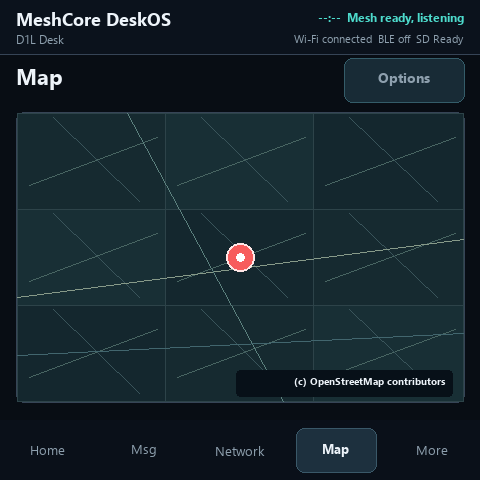
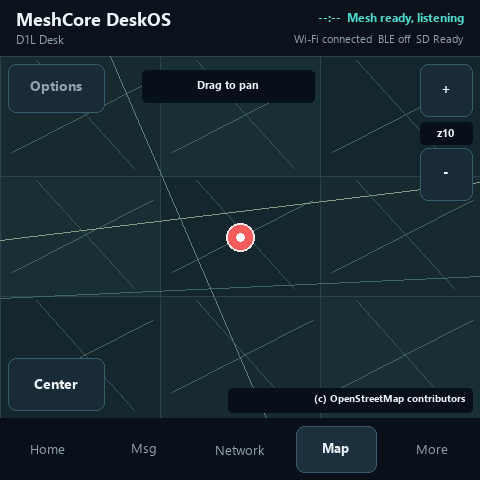
Use a full-screen Map canvas

diff --git a/main/ui/ui_map.c b/main/ui/ui_map.c
@@ -20,8 +20,8 @@
 #define MAP_COLOR_GOOD 0x5EEAD4U
 #define MAP_COLOR_INFO 0x93C5FDU
 #define MAP_COLOR_WARN 0xFBBF24U
-#define MAP_VIEWPORT_WIDTH 446U
-#define MAP_VIEWPORT_HEIGHT 288U
+#define MAP_VIEWPORT_WIDTH 478U
+#define MAP_VIEWPORT_HEIGHT 360U
 #define MAP_DRAG_THRESHOLD_PIXELS 24
 #define MAP_DRAG_MAX_X_PIXELS ((int32_t)MAP_VIEWPORT_WIDTH / 3)
 #define MAP_DRAG_MAX_Y_PIXELS ((int32_t)MAP_VIEWPORT_HEIGHT / 3)
@@ -140,6 +140,17 @@ static void map_style_primary_button(lv_obj_t *button)
     lv_obj_set_style_bg_color(button, lv_color_hex(0x12362F), 0);
     lv_obj_set_style_bg_color(button, lv_color_hex(0x174A40), LV_STATE_PRESSED);
     lv_obj_set_style_border_color(button, lv_color_hex(MAP_COLOR_GOOD), 0);
+    lv_obj_set_style_border_width(button, 1, 0);
+}
+
+static void map_style_overlay_button(lv_obj_t *button)
+{
+    if (!button) {
+        return;
+    }
+    lv_obj_set_style_bg_opa(button, LV_OPA_90, 0);
+    lv_obj_set_style_bg_opa(button, LV_OPA_COVER, LV_STATE_PRESSED);
+    lv_obj_set_style_border_color(button, lv_color_hex(MAP_COLOR_BORDER), 0);
     lv_obj_set_style_border_width(button, 1, 0);
 }
 
@@ -809,21 +820,23 @@ void d1l_ui_map_render(lv_obj_t *parent,
     s_viewport_zoom_label = NULL;
     s_viewport_zoom_in_button = NULL;
     s_viewport_zoom_out_button = NULL;
+    lv_obj_clear_flag(parent, LV_OBJ_FLAG_SCROLLABLE | LV_OBJ_FLAG_SCROLL_CHAIN);
+    lv_obj_set_scroll_dir(parent, LV_DIR_NONE);
+    lv_obj_set_scrollbar_mode(parent, LV_SCROLLBAR_MODE_OFF);
     lv_obj_set_style_pad_bottom(parent, 0, 0);
-    lv_obj_t *title = map_label(parent, "Map", MAP_COLOR_TEXT);
-    if (title) {
-        lv_obj_set_style_text_font(title, &lv_font_montserrat_24, 0);
-        lv_obj_set_pos(title, 16, 6);
-    }
-    map_button(parent, "Options", 344, 4, 120, 44, callbacks->open_options);
-
-    lv_obj_t *viewport = map_panel(parent, 16, 58, 448, 290);
+    lv_obj_t *viewport = map_panel(parent, 0, 0, 480, 362);
     if (!viewport) {
         return;
     }
     lv_obj_set_style_bg_color(viewport, lv_color_hex(0x0B151E), 0);
+    lv_obj_set_style_radius(viewport, 0, 0);
+    lv_obj_set_style_border_width(viewport, 0, 0);
     lv_obj_add_flag(viewport, LV_OBJ_FLAG_CLICKABLE);
-    lv_obj_clear_flag(viewport, LV_OBJ_FLAG_GESTURE_BUBBLE);
+    lv_obj_clear_flag(viewport, LV_OBJ_FLAG_SCROLLABLE |
+                                LV_OBJ_FLAG_SCROLL_CHAIN |
+                                LV_OBJ_FLAG_GESTURE_BUBBLE);
+    lv_obj_set_scroll_dir(viewport, LV_DIR_NONE);
+    lv_obj_set_scrollbar_mode(viewport, LV_SCROLLBAR_MODE_OFF);
     lv_obj_add_event_cb(viewport, map_viewport_drag_event_cb, LV_EVENT_PRESSED, NULL);
     lv_obj_add_event_cb(viewport, map_viewport_drag_event_cb, LV_EVENT_PRESSING, NULL);
     lv_obj_add_event_cb(viewport, map_viewport_drag_event_cb, LV_EVENT_RELEASED, NULL);
@@ -843,16 +856,16 @@ void d1l_ui_map_render(lv_obj_t *parent,
     s_viewport_status_label = status;
     if (status) {
         lv_obj_set_style_text_font(status, &lv_font_montserrat_24, 0);
-        map_label_dot(status, 400);
+        map_label_dot(status, 420);
         lv_obj_set_style_text_align(status, LV_TEXT_ALIGN_CENTER, 0);
-        lv_obj_set_pos(status, 24, 94);
+        lv_obj_set_pos(status, 30, 116);
     }
     lv_obj_t *detail = map_label(viewport, state_detail, MAP_COLOR_DETAIL);
     s_viewport_detail_label = detail;
     if (detail) {
-        map_label_wrap(detail, 400);
+        map_label_wrap(detail, 420);
         lv_obj_set_style_text_align(detail, LV_TEXT_ALIGN_CENTER, 0);
-        lv_obj_set_pos(detail, 24, 134);
+        lv_obj_set_pos(detail, 30, 158);
     }
     char readiness[96];
     snprintf(readiness, sizeof(readiness), "Wi-Fi %s  |  SD %s",
@@ -860,47 +873,56 @@ void d1l_ui_map_render(lv_obj_t *parent,
     lv_obj_t *ready = map_label(viewport, readiness, MAP_COLOR_MUTED);
     s_viewport_readiness_label = ready;
     if (ready) {
-        map_label_dot(ready, 400);
+        map_label_dot(ready, 420);
         lv_obj_set_style_text_align(ready, LV_TEXT_ALIGN_CENTER, 0);
-        lv_obj_set_pos(ready, 24, 188);
+        lv_obj_set_pos(ready, 30, 216);
     }
     lv_obj_t *attribution = map_label(viewport, "(c) OpenStreetMap contributors",
                                       MAP_COLOR_DETAIL);
     s_viewport_attribution_label = attribution;
     if (attribution) {
-        map_label_dot(attribution, 416);
+        map_label_dot(attribution, 240);
         lv_obj_set_style_text_align(attribution, LV_TEXT_ALIGN_RIGHT, 0);
-        lv_obj_set_pos(attribution, 16, 260);
+        lv_obj_set_pos(attribution, 228, 334);
         lv_obj_set_style_bg_color(attribution, lv_color_hex(0x071018), 0);
         lv_obj_set_style_bg_opa(attribution, LV_OPA_80, 0);
         lv_obj_set_style_pad_all(attribution, 2, 0);
     }
 
+    lv_obj_t *options_button = map_button(
+        viewport, "Options", 8, 8, 96, 48, callbacks->open_options);
+    map_style_overlay_button(options_button);
+
     if (snapshot->map_location_set) {
-        map_button(viewport, "Center", 12, 12, 92, 48,
-                   map_viewport_recenter_event_cb);
+        lv_obj_t *center_button = map_button(
+            viewport, "Center", 8, 302, 96, 52,
+            map_viewport_recenter_event_cb);
+        map_style_overlay_button(center_button);
         lv_obj_t *drag_hint = map_label(viewport, "Drag to pan", MAP_COLOR_DETAIL);
         s_viewport_drag_hint_label = drag_hint;
         if (drag_hint) {
-            map_label_dot(drag_hint, 128);
-            lv_obj_set_pos(drag_hint, 116, 29);
+            map_label_dot(drag_hint, 172);
+            lv_obj_set_style_text_align(drag_hint, LV_TEXT_ALIGN_CENTER, 0);
+            lv_obj_set_pos(drag_hint, 142, 22);
             lv_obj_set_style_bg_color(drag_hint, lv_color_hex(MAP_COLOR_BG), 0);
             lv_obj_set_style_bg_opa(drag_hint, LV_OPA_80, 0);
             lv_obj_set_style_pad_all(drag_hint, 2, 0);
         }
         s_viewport_zoom_label = map_label(viewport, "z10", MAP_COLOR_DETAIL);
         if (s_viewport_zoom_label) {
-            map_label_dot(s_viewport_zoom_label, 44);
+            map_label_dot(s_viewport_zoom_label, 52);
             lv_obj_set_style_text_align(s_viewport_zoom_label, LV_TEXT_ALIGN_CENTER, 0);
-            lv_obj_set_pos(s_viewport_zoom_label, 292, 29);
+            lv_obj_set_pos(s_viewport_zoom_label, 420, 66);
             lv_obj_set_style_bg_color(s_viewport_zoom_label, lv_color_hex(MAP_COLOR_BG), 0);
             lv_obj_set_style_bg_opa(s_viewport_zoom_label, LV_OPA_80, 0);
             lv_obj_set_style_pad_all(s_viewport_zoom_label, 2, 0);
         }
         s_viewport_zoom_out_button = map_button(
-            viewport, "-", 344, 12, 44, 48, map_viewport_zoom_out_event_cb);
+            viewport, "-", 420, 92, 52, 52, map_viewport_zoom_out_event_cb);
         s_viewport_zoom_in_button = map_button(
-            viewport, "+", 392, 12, 44, 48, map_viewport_zoom_in_event_cb);
+            viewport, "+", 420, 8, 52, 52, map_viewport_zoom_in_event_cb);
+        map_style_overlay_button(s_viewport_zoom_out_button);
+        map_style_overlay_button(s_viewport_zoom_in_button);
         map_viewport_update_controls();
     }
 

diff --git a/tools/ui_simulator.py b/tools/ui_simulator.py
@@ -14,10 +14,10 @@ from PIL import Image, ImageDraw, ImageFont
 
 WIDTH = 480
 HEIGHT = 480
-TOP_BAR_H = 54
+TOP_BAR_H = 56
 HOME_TOP_BAR_H = 16
-DOCK_Y = 420
-DOCK_H = 60
+DOCK_Y = 418
+DOCK_H = 62
 MIN_TOUCH_TARGET = 44
 DOCKED_VIEWS = frozenset(
     {
@@ -1771,31 +1771,40 @@ def render_map(s: Surface, snap: Snapshot):
     ready_for_live = snap.map_location_set and snap.wifi_connected
     frame_ready = ready_for_live or snap.map_cached_tile_count > 0
 
-    # Match ui_map.c: a simple title/action row and one 448x290 inset viewport.
-    s.text("Map", (16, 58, 328, 102), 22, TEXT, True)
-    draw_button(s, (344, 58, 464, 102), "Options", MUTED, action="open_map_options", destination="map_options")
-    viewport = (16, 112, 464, 402)
-    s.round_rect(viewport, (11, 21, 30), BORDER, 8)
+    # Match ui_map.c: the entire space between global chrome is the map canvas.
+    # Controls are sparse edge overlays so the map remains the dominant surface.
+    viewport = (0, TOP_BAR_H, WIDTH, DOCK_Y)
     if frame_ready:
-        draw_map_grid(s, snap, (17, 113, 463, 401))
+        draw_map_grid(s, snap, viewport)
     else:
+        s.rect(viewport, (11, 21, 30))
         view_status, view_detail, view_color = map_view_status(snap)
-        s.text(view_status, (40, 202, 440, 236), 22, view_color, True, "center")
-        s.wrapped_text(view_detail, (40, 242, 440, 292), 13, TEXT, line_height=20, align="center")
+        s.text(view_status, (30, 168, 450, 202), 22, view_color, True, "center")
+        s.wrapped_text(view_detail, (30, 210, 450, 260), 13, TEXT, line_height=20, align="center")
         wifi_label, _ = map_wifi_status(snap)
         readiness = f"Wi-Fi {wifi_label}  |  SD {'Ready' if snap.map_tile_cache_ready else 'Not ready'}"
-        s.text(readiness, (40, 300, 440, 326), 12, MUTED, False, "center")
+        s.text(readiness, (30, 268, 450, 294), 12, MUTED, False, "center")
+
+    draw_button(
+        s,
+        (8, TOP_BAR_H + 8, 104, TOP_BAR_H + 56),
+        "Options",
+        MUTED,
+        action="open_map_options",
+        destination="map_options",
+    )
 
     if snap.map_location_set:
-        draw_button(s, (28, 124, 120, 172), "Center", TEXT, action="map_recenter")
-        s.text("Drag to pan", (132, 137, 250, 160), 11, TEXT, True, "center")
-        s.text(f"z{snap.map_tile_zoom}", (302, 137, 350, 160), 11, TEXT, True, "center")
-        draw_button(s, (360, 124, 404, 172), "-", TEXT, action="map_zoom_out")
-        draw_button(s, (408, 124, 452, 172), "+", TEXT, action="map_zoom_in")
+        draw_button(s, (8, DOCK_Y - 60, 104, DOCK_Y - 8), "Center", TEXT, action="map_recenter")
+        s.round_rect((142, TOP_BAR_H + 14, 314, TOP_BAR_H + 46), (7, 16, 24), (7, 16, 24), 5)
+        s.text("Drag to pan", (146, TOP_BAR_H + 18, 310, TOP_BAR_H + 42), 11, TEXT, True, "center")
+        draw_button(s, (420, TOP_BAR_H + 8, 472, TOP_BAR_H + 60), "+", TEXT, action="map_zoom_in")
+        s.round_rect((420, TOP_BAR_H + 66, 472, TOP_BAR_H + 88), (7, 16, 24), (7, 16, 24), 4)
+        s.text(f"z{snap.map_tile_zoom}", (420, TOP_BAR_H + 66, 472, TOP_BAR_H + 88), 11, TEXT, True, "center")
+        draw_button(s, (420, TOP_BAR_H + 92, 472, TOP_BAR_H + 144), "-", TEXT, action="map_zoom_out")
 
-    # The ready viewport has no technical badges; attribution is the sole overlay.
-    s.round_rect((236, 370, 452, 396), (7, 16, 24), (7, 16, 24), 4)
-    s.text(MAP_ATTRIBUTION, (242, 372, 446, 394), 10, TEXT, True, "right")
+    s.round_rect((228, DOCK_Y - 30, 472, DOCK_Y - 6), (7, 16, 24), (7, 16, 24), 4)
+    s.text(MAP_ATTRIBUTION, (234, DOCK_Y - 28, 466, DOCK_Y - 8), 10, TEXT, True, "right")
     s.metrics.update(
         {
             "map_hierarchy_level": "actual_view",
@@ -1803,6 +1812,10 @@ def render_map(s: Surface, snap: Snapshot):
             "map_landing_action_count": 1,
             "map_view_control_count": 3 if snap.map_location_set else 0,
             "map_pan_gesture": snap.map_location_set,
+            "map_full_bleed_content": True,
+            "map_local_header_height": 0,
+            "map_controls_overlay_canvas": True,
+            "map_min_control_target": 48,
             "map_default_zoom": 10,
             "map_min_zoom": 8,
             "map_max_zoom": 14,

diff --git a/tests/test_map_viewport_ui_contract.py b/tests/test_map_viewport_ui_contract.py
@@ -22,8 +22,8 @@ def test_map_ui_uses_bounded_core_viewport_and_visible_attribution():
     assert "D1L_MAP_VIEW_MIN_ZOOM 8U" in math_header
     assert "D1L_MAP_VIEW_MAX_ZOOM 14U" in math_header
     assert "s_viewport_zoom = D1L_MAP_VIEW_DEFAULT_ZOOM" in source
-    assert "MAP_VIEWPORT_WIDTH 446U" in source
-    assert "MAP_VIEWPORT_HEIGHT 288U" in source
+    assert "MAP_VIEWPORT_WIDTH 478U" in source
+    assert "MAP_VIEWPORT_HEIGHT 360U" in source
     assert "d1l_map_view_service_acquire_visible" in source
     assert "d1l_map_view_service_acquire_frame" in source
     assert "d1l_map_view_service_release_frame" in source
@@ -80,13 +80,18 @@ def test_map_viewport_touch_controls_pan_on_release_and_request_one_new_view():
         "bool d1l_ui_map_viewport_refresh",
     )
 
-    assert 'map_button(viewport, "Center", 12, 12, 92, 48' in render
-    assert 'viewport, "-", 344, 12, 44, 48' in render
-    assert 'viewport, "+", 392, 12, 44, 48' in render
+    assert 'viewport, "Options", 8, 8, 96, 48' in render
+    assert 'viewport, "Center", 8, 302, 96, 52' in render
+    assert 'viewport, "-", 420, 92, 52, 52' in render
+    assert 'viewport, "+", 420, 8, 52, 52' in render
+    assert "map_style_overlay_button" in render
+    assert "LV_OBJ_FLAG_SCROLLABLE | LV_OBJ_FLAG_SCROLL_CHAIN" in render
+    assert "lv_obj_set_scroll_dir(parent, LV_DIR_NONE)" in render
+    assert "lv_obj_set_scrollbar_mode(parent, LV_SCROLLBAR_MODE_OFF)" in render
     assert 'map_label(viewport, "Drag to pan"' in render
     assert "s_viewport_drag_hint_label = drag_hint" in render
     assert "lv_obj_add_flag(viewport, LV_OBJ_FLAG_CLICKABLE)" in render
-    assert "lv_obj_clear_flag(viewport, LV_OBJ_FLAG_GESTURE_BUBBLE)" in render
+    assert "LV_OBJ_FLAG_GESTURE_BUBBLE" in render
     for event in (
         "LV_EVENT_PRESSED",
         "LV_EVENT_PRESSING",

diff --git a/tests/test_ui_shell_contract.py b/tests/test_ui_shell_contract.py
@@ -1090,7 +1090,6 @@ def test_map_screen_uses_built_in_source_and_a_bounded_visible_view():
     assert "render_metric_card(" not in wrapper
 
     for label in (
-        '"Map"',
         '"Options"',
         '"Map options"',
         '"Set location"',
@@ -1117,15 +1116,16 @@ def test_map_screen_uses_built_in_source_and_a_bounded_visible_view():
     landing = map_source.split("void d1l_ui_map_render(", 1)[1].split(
         "static void map_render_options_root", 1
     )[0]
-    assert landing.count('map_button(parent, "Options"') == 1
+    assert 'map_label(parent, "Map"' not in landing
+    assert landing.count('viewport, "Options", 8, 8, 96, 48') == 1
     assert "map_view_service_acquire_visible" in landing
     assert "s_viewport_lat_e7, s_viewport_lon_e7, s_viewport_zoom" in landing
-    assert 'map_button(viewport, "Center"' in landing
-    assert 'viewport, "-", 344, 12, 44, 48' in landing
-    assert 'viewport, "+", 392, 12, 44, 48' in landing
+    assert 'viewport, "Center", 8, 302, 96, 52' in landing
+    assert 'viewport, "-", 420, 92, 52, 52' in landing
+    assert 'viewport, "+", 420, 8, 52, 52' in landing
     assert 'map_label(viewport, "Drag to pan"' in landing
-    assert "MAP_VIEWPORT_WIDTH 446U" in map_source
-    assert "MAP_VIEWPORT_HEIGHT 288U" in map_source
+    assert "MAP_VIEWPORT_WIDTH 478U" in map_source
+    assert "MAP_VIEWPORT_HEIGHT 360U" in map_source
 
     options = map_source.split("static void map_render_options_root", 1)[1].split(
         "static void map_render_cache_status", 1

diff --git a/tests/test_ui_simulator.py b/tests/test_ui_simulator.py
@@ -199,7 +199,10 @@ def test_ui_simulator_covers_current_touch_surfaces(tmp_path):
     assert "Mesh ready, listening" not in labels_by_view["home"]
     assert "D1L Desk" not in labels_by_view["home"]
     assert not any(label.startswith("--:--  Mesh") for label in labels_by_view["home"])
+    assert ui_simulator.TOP_BAR_H == 56
     assert ui_simulator.HOME_TOP_BAR_H == 16
+    assert ui_simulator.DOCK_Y == 418
+    assert ui_simulator.DOCK_H == 62
     assert "RX" not in labels_by_view["home"]
     assert "TX" not in labels_by_view["home"]
     assert not any(target["kind"] == "dock_tab" for target in views_by_name["home"]["touch_targets"])
@@ -1140,6 +1143,11 @@ def test_ui_simulator_map_hierarchy_is_simple_friendly_and_bounded(tmp_path):
     assert views["map"]["metrics"]["map_landing_action_count"] == 1
     assert views["map"]["metrics"]["map_view_control_count"] == 3
     assert views["map"]["metrics"]["map_pan_gesture"] is True
+    assert views["map"]["metrics"]["map_full_bleed_content"] is True
+    assert views["map"]["metrics"]["map_local_header_height"] == 0
+    assert views["map"]["metrics"]["map_controls_overlay_canvas"] is True
+    assert views["map"]["metrics"]["map_min_control_target"] == 48
+    assert views["map"]["metrics"]["map_viewport"] == [0, ui_simulator.TOP_BAR_H, 480, ui_simulator.DOCK_Y]
     assert views["map"]["metrics"]["map_default_zoom"] == 10
     assert views["map"]["metrics"]["map_min_zoom"] == 8
     assert views["map"]["metrics"]["map_max_zoom"] == 14
@@ -1158,8 +1166,8 @@ def test_ui_simulator_map_hierarchy_is_simple_friendly_and_bounded(tmp_path):
     assert {"map_recenter", "map_zoom_out", "map_zoom_in"}.issubset(actions["map"])
     for action in ("map_recenter", "map_zoom_out", "map_zoom_in"):
         target = actions["map"][action]
-        assert target["width"] >= 44
-        assert target["height"] >= 44
+        assert target["width"] >= 48
+        assert target["height"] >= 48
         assert target["rf_tx"] is False
         assert target["formats_sd"] is False
     assert {"Center", "Drag to pan", "z10", "-", "+"}.issubset(labels["map"])

diff --git a/docs/TEST_PLAN_D1L.md b/docs/TEST_PLAN_D1L.md
@@ -44,7 +44,7 @@ Coverage:
 - SDK generated-state contract: ESP-IDF Component Manager must generate `dependencies.lock` in the version-pinned Actions environment. The first migration run must archive the exact generated lock and diff for review; after that output is committed without hand-editing its generated hash, the qualifying repeat Actions build must leave the lock unchanged and must surface unexpected generated configuration drift for review.
 - Release gate audit contract: `scripts/release_gate_audit_d1l.py` must fail closed when P0 production evidence is missing, must not require hardware or ports in CI, must reject obsolete SD preflight evidence that recommends any device-format action, must require SD evidence to report `formats_sd=false`, and must report `ready_for_public_release=false` until current-commit smoke, compose-keyboard capture, SD matrix, 12-hour soak, manual physical UI/photos, and full RF/DM evidence are present.
 - Autonomous hardware validation contract: `scripts/autonomous_hardware_validate_d1l.py` must provide a no-user-input orchestration path for the current D1L hardware route. It must default to COM12 for the ESP32 console, treat COM16 as the RP2040 USB/CDC/UF2 path only when an RP2040 refresh is explicitly requested, refuse COM8, COM11, and COM29, use only GitHub Actions-built artifacts, preserve `public_rf_tx=false` and `formats_sd=false`, and reuse the already-validated production RP2040 bridge by default. The bundled COM12 smoke/UI/preflight path is a deliberate multi-surface sweep, not the default proof for every UI P0. Issue work should call the narrow script that matches the acceptance criteria, then reserve the bundled runner for multi-surface issues or final production sweep evidence. It may copy RP2040 UF2 files only when invoked with `--refresh-rp2040-smoke`; that refresh path must restore the production RP2040 bridge after any official SD smoke UF2.
-- UI simulator contract: `tools/ui_simulator.py` must render deterministic 480x480 PNGs plus schema-v2 `ui-sim-report.json`, cover the main touch surfaces and nested pages, fail on missing labels or measured overflow, emit 44x44 touch targets, flag RF/destructive/format-capable actions, and keep `formats_sd=false`. Storage retains its proven hierarchy. Map renders the actual current view plus `Map -> Map options -> Set location or Cache status`; it shows one-finger pan, direct `-`/`+`/`Center` controls, default zoom 10, the 8-through-14 range, `(c) OpenStreetMap contributors`, the visible-tile limit of 9, one zoom per visible generation, completed same-view frame reuse, and cache reuse while exposing no provider/source editor, background/prefetch, off-screen batch, or area-download action.
+- UI simulator contract: `tools/ui_simulator.py` must render deterministic 480x480 PNGs plus schema-v2 `ui-sim-report.json`, cover the main touch surfaces and nested pages, fail on missing labels or measured overflow, emit 44x44 touch targets, flag RF/destructive/format-capable actions, and keep `formats_sd=false`. Storage retains its proven hierarchy. Map renders the actual current view plus `Map -> Map options -> Set location or Cache status`; its canvas fills the content region without a map-local title row, and sparse edge overlays show one-finger pan plus direct 48x48-or-larger `-`/`+`/`Center` controls, default zoom 10, the 8-through-14 range, `(c) OpenStreetMap contributors`, the visible-tile limit of 9, one zoom per visible generation, completed same-view frame reuse, and cache reuse while exposing no provider/source editor, background/prefetch, off-screen batch, or area-download action.
 - P0 UI hardware-script contract: `scripts/ui_corruption_probe_d1l.py --dry-run --rounds 20`, `scripts/ui_capture_d1l.py --dry-run`, `scripts/ui_compose_keyboard_capture_d1l.py --dry-run --targets all`, and `scripts/scroll_probe_d1l.py --dry-run --screens home,public_messages,dm_thread,nodes,packets,settings,storage,storage_card,storage_data,wifi,map,map_options,map_location,map_cache` stay host-only and require an explicit port for hardware mode. All-tab and Map probes must enter Map through the network-suppressed `ui scroll-probe` path, never an unsuppressed `ui tab map`. Hardware artifacts must include successful `map tiles status` rows before and after Map automation, prove that `network_requests` did not change, and report `network_tx=false`, `map_network_requests=false`, `background_download=false`, `area_download=false`, `visible_tile_limit=9`, and `zoom_batch_limit=1`; probes never request map tiles or mutate Wi-Fi/RF/storage.
 - First-boot onboarding contract: current settings must persist `onboarding_complete`, optional manual map center, and saved Wi-Fi profile metadata while migrating older settings without dropping identity. No provider URL, API key, attribution editor, or user-selected tile source is part of onboarding or settings.
 - Map location contract: normal Map entry opens the actual Map and never auto-opens an editor. `Options -> Set location` opens decimal latitude/longitude fields with an onscreen keyboard; Back makes no change, Save persists a valid center, and Clear is available only when a saved center exists. Serial `map center set|clear` commands share the same persistence path without Public RF, tile networking, SD writes, or formatting.

diff --git a/docs/UI_SPEC_480x480_DARK.md b/docs/UI_SPEC_480x480_DARK.md
@@ -16,7 +16,7 @@ Phase 3 starts the production shell while preserving the diagnostic serial comma
 - Public message screen with persisted recent Public rows, a touch `test` send action, and a free-text composer sheet routed through the app model.
 - Message Detail and DM Thread use full-height nested pages with one Back control, a scrollable content body, and a sticky full-width Reply action. Long Public text determines its own height before Technical details; opening a DM thread marks it read.
 - Nodes screen that reports heard-node and contact counts, renders newest persisted contact rows when present, and falls back to newest persisted heard-node rows.
-- Map is the actual current-view surface, not a setup dashboard. It has a one-finger draggable viewport, direct 44x44-or-larger `-`, `+`, and `Center` controls, one `Options` setup action, an unobtrusive zoom/status badge, and the always-visible ASCII attribution `(c) OpenStreetMap contributors`. It starts at regional zoom 10, clamps user zoom to 8 through 14, and `Center` returns to the saved location. While a bounded plan is active, the drag hint becomes a compact `Loading n/N` or `Downloading n/N` progress label rather than leaving a static spinner/message with no progress feedback.
+- Map is the actual current-view surface, not a setup dashboard. The map canvas fills the complete content region between the global status bar and dock; there is no map-local title row. Its sparse edge overlays provide one-finger pan, direct 48x48-or-larger `-`, `+`, and `Center` controls, one `Options` setup action, an unobtrusive zoom/status badge, and the always-visible ASCII attribution `(c) OpenStreetMap contributors`. It starts at regional zoom 10, clamps user zoom to 8 through 14, and `Center` returns to the saved location. While a bounded plan is active, the drag hint becomes a compact `Loading n/N` or `Downloading n/N` progress label rather than leaving a static spinner/message with no progress feedback.
 - Contact Detail uses the full-height nested-page pattern and exposes only two primary destinations: `Message` and `Contact options`. Contact Options owns Route, Export, Rename, favorite/mute state, and the destructive contact-removal path. Route, Export, and Rename return to Contact Options rather than flattening those functions back into Contact Detail.
 - Removing a contact requires a dedicated confirmation page. `Cancel` and every `Back` path are non-destructive and restore Contact Options; only the explicit confirmation callback may delete the retained contact.
 - Packet log screen with bounded recent packet rows, route rows, first route detail sheet, and first packet detail sheet.